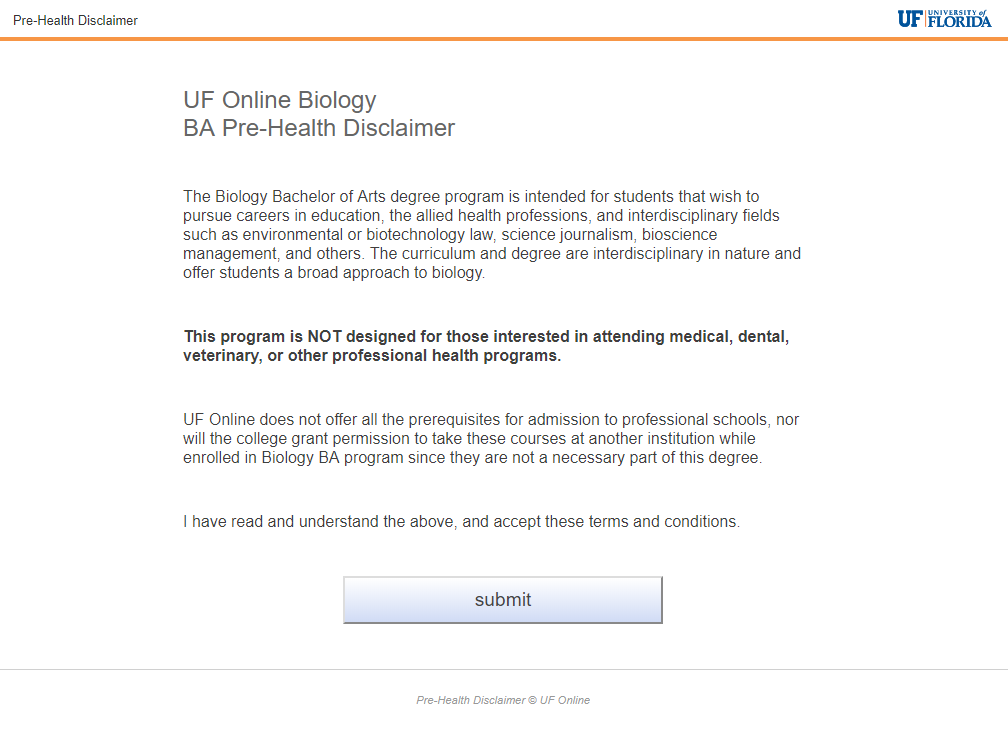
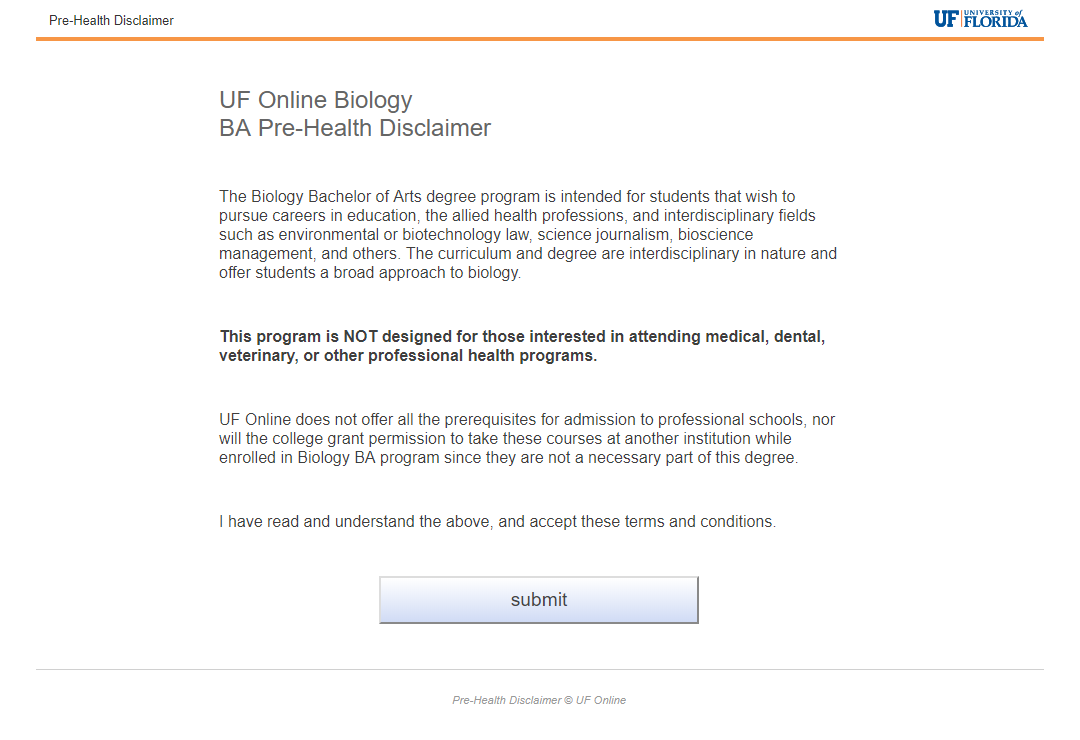
[UFO] dashboard -- having trouble loading to server and
displaying (in) properly

diff --git a/fixlist/UFO/forms/readmission/css/master.css b/fixlist/UFO/forms/readmission/css/master.css
@@ -16,38 +16,58 @@ html {
 body {
   background: #ffefdd;
   background: #5f89af;
+  background: white;
   overflow-y: scroll;
 }
 
 .container {
   width: 100%;
   margin: auto;
-  max-width: 980px;
+  /* max-width: 980px; */
   background: white;
 }
 
 header {
-  border-bottom: 1px solid #444;
+  border-bottom: 1px solid #999;
   margin-bottom: 1.5rem;
-  background: #efa158;
   background: white;
   color: #efa158;
 }
 
-h1 {
-  font-size: 1.8rem;
-  padding-bottom: 1rem;
-  padding-top: .9rem;
-  color: #333;
-  color: #d67c28; /* orange */
+.container_header {
   width: 87%;
   margin: auto;
+  max-width: 61.25rem;
+  display: flex;
+  justify-content: space-between;
+}
+
+
+.container_header h1 {
+  font-size: 1rem;
+  padding-bottom: 1rem;
+  padding-top: .9rem;
+  color: #d67c28; /* orange */
+}
+
+p#container_header {
+  margin: 0;
+  margin-top: 1rem;
+  padding: 0;
+  width: 100px;
+  color: #575757;
+  font-size: .75rem;
+}
+
+h1 i {
+  font-size: 1rem;
+  font-weight: 100;
 }
 
 nav {
   padding-bottom: 1rem;
   padding-top: 1rem;
-  border-top: 1px solid #4b6896;
+  border-top: 1px solid #999;
 }
 
 nav ul {
@@ -93,8 +113,9 @@ h2 {
   width: 87%;
   margin: auto;
   margin-bottom: 1.3rem;
-  font-size: 1.3rem;
-  color: #2d2d2d;
+  font-size: 2rem;
+  color: #494949;
+
 }
 
 p {
@@ -125,6 +146,13 @@ input {
   outline-style: solid;
   outline-width: 2px;
   background: white;
+}
+
+#input_startForm {
+  width: 300px;
+  color: #555;
+  font-size: 1.5rem;
+  font-weight: 100;
 }
 
 input:hover {
@@ -194,6 +222,19 @@ fieldset {
   text-decoration: none;
 }
 
+section {
+  max-width: 51.25rem;
+  margin: auto;
+}
+
+section p {
+  margin-bottom: 1.5rem;
+}
+
+label {
+  color: #555;
+}
+
 .displayNone {
   display: none;
 }
@@ -203,8 +244,10 @@ fieldset {
 }
 
 footer {
-  margin-top: 2rem;
+  margin-top: 2.71rem;
+  padding-top: 1.5rem;
   padding-bottom: 1rem;
+  border-top: 1px solid #e0e0e0;
 }
 
 

diff --git a/fixlist/UFO/css/index.css b/fixlist/UFO/css/index.css
@@ -6,7 +6,7 @@
 .form {
   border: 1px solid #c0c0c0;
   box-shadow: .3rem .3rem .8rem #c0c0c0;
-  width: 32%;
+  width: 31%;
   border-radius: .3rem;
   margin-top: 1.5rem;
   padding: 0 0 1rem 0;
@@ -17,13 +17,27 @@
   margin-bottom: 1rem;
 }
 
+.form p a {
+  font-weight: bold;
+}
+
 .form img {
-  width: 99%;
+  width: 90%;
   display: block;
   margin: auto;
+  border: 2px solid #c0c0c0;
+  border-radius: .25rem;
+  margin-top: 1rem;
+  box-shadow: 0 .3rem .8rem #c0c0c0;
+  margin-bottom: 1.2rem;
 }
 
 .form li {
   color: #444;
   line-height: 1.6;
+}
+
+.form h3 {
+  font-weight: bold;
+  margin: 1.3rem auto .5rem auto;
 }

diff --git a/fixlist/UFO/index.php b/fixlist/UFO/index.php
@@ -7,18 +7,47 @@
 
   <div class="page container">
     <div class="form">
-      <img src="image/disclaimer_prehealth.png" alt="">
+      <a href="https://www.advising.ufl.edu/UFO/forms/prehealth/disclaimer.php" target="_blank"><img src="image/disclaimer_prehealth.png" alt=""></a>
       <p><a href="https://www.advising.ufl.edu/UFO/forms/prehealth/disclaimer.php" target="_blank">Pre-Health Acknowledgement</a></p>
+      <h3>Environment</h3>
       <ul>
-        <li>recognizes user via SHIB</li>
-        <li>Mailsto: dsking@ufl.edu</li>
+        <li>User via SHIB Vars</li>
+      </ul>
+      <h3>Owner</h3>
+      <ul>
+        <li><i>dsking@ufl.edu</i></li>
       </ul>
     </div><!-- form -->
     <div class="form">
-      <p>Readmission Validation</p>
+      <a href="https://www.advising.ufl.edu/UFO/forms/readmission/" target="_blank"><img src="image/acknowledgement_readmissions.png" alt=""></a>
+      <p><a href="https://www.advising.ufl.edu/UFO/forms/readmission/" target="_blank">Readmission Validation</a></p>
+      <h3>Environment</h3>
+      <ul>
+        <li>User via SHIB Vars</li>
+      </ul>
+      <h3>Owner</h3>
+      <ul>
+        <li><i>clasufonline@advising.ufl.edu</i></li>
+      </ul>
     </div><!-- form -->
     <div class="form">
-      <p>PaCE Transition Contract</p>
+      <a href="https://www.advising.ufl.edu/UFO/PaCE/records/transition.php" target="_blank"><img src="image/contract_paceTransition.png" alt=""></a>
+      <p><a href="https://www.advising.ufl.edu/UFO/PaCE/records/transition.php" target="_blank">PaCE Transition Contract</a></p>
+      <h3>Environment</h3>
+      <ul>
+        <li>Two-Way Limited Access via SHIB</li>
+      </ul>
+      <h3>Response Emails</h3>
+      <ul>
+        <li>nraymond@advising.ufl.edu</li>
+        <li>acatalano2@ufl.edu</li>
+        <li>claspace@advising.ufl.edu</li>
+      </ul>
+      <h3>Approval Email:</h3>
+      <ul>
+        <li>onestop@ufonline.ufl.edu</li>
+      </ul>
+
     </div><!-- form -->
   </div>
 

diff --git a/fixlist/UFO/forms/readmission/include/glid.php b/fixlist/UFO/forms/readmission/include/glid.php
@@ -1,8 +1,17 @@
 <?php
-  $UFID         = $_SERVER['HTTP_UFSHIB_UFID'];
-  $date_auto    = date("Y-m-d H:i:s");
-  $nameBusiness = $_SERVER['HTTP_UFSHIB_BUSINESSNAME'];
-  $email        = $_SERVER['HTTP_UFSHIB_MAIL'];
-  $nameGiven    = $_SERVER['HTTP_UFSHIB_GIVENNAME']." ".$_SERVER['HTTP_UFSHIB_SN'];
-  $nameGivenShort    = $_SERVER['HTTP_UFSHIB_GIVENNAME'];
+  if (isset($_SERVER['HTTP_UFSHIB_MAIL'])) {
+    $UFID           = $_SERVER['HTTP_UFSHIB_UFID'];
+    $date_auto      = date("Y-m-d H:i:s");
+    $nameBusiness   = $_SERVER['HTTP_UFSHIB_BUSINESSNAME'];
+    $email          = $_SERVER['HTTP_UFSHIB_MAIL'];
+    $nameGiven      = $_SERVER['HTTP_UFSHIB_GIVENNAME']." ".$_SERVER['HTTP_UFSHIB_SN'];
+    $nameGivenShort = $_SERVER['HTTP_UFSHIB_GIVENNAME'];
+  } else {
+      $UFID           = "12344321";
+      $date_auto      = "00/00/00";
+      $nameBusiness   = "Localhost, Admin";
+      $email          = "admin@localhost.com";
+      $nameGiven      = "Admin Localhost";
+      $nameGivenShort = "Admin";
+  }
 ?>

diff --git a/fixlist/UFO/forms/readmission/disclosure.php b/fixlist/UFO/forms/readmission/disclosure.php
@@ -9,7 +9,7 @@
 	require_once("include/header.php");
 ?>
 		<section>
-		  <h2><span class="orange"><?php echo $thisPage; ?>.</span> Health Professions Disclosure</h2>
+		  <h2><?php echo $thisPage; ?>. Health Professions Disclosure</h2>
       <form class="" action="expectations.php" method="post">
   		  <p>UF Online Majors in the College of Liberal Arts and Sciences (CLAS) <b>were not</b> designed to accommodate students interested in pursuing a career in a health profession such as: pre-med, pre-dent, pre-vet, PA, or Pharmacy.</p>
   		  <p>It is <b>not advisable</b> for CLAS UF Online students to complete pre-professional courses through UF Online or as a transient student; UF Online does not offer all of these courses, and professional schools may not accept these courses, or may view them with diminished competitiveness.</p>

diff --git a/fixlist/UFO/forms/readmission/expectations.php b/fixlist/UFO/forms/readmission/expectations.php
@@ -12,7 +12,7 @@
 
   <form class="" action="curriculum.php" method="post">
 		<section>
-		  <h2><span class="orange"><?php echo $thisPage; ?>.</span> Expectation to Remain in UF Online:</h2>
+		  <h2><?php echo $thisPage; ?>. Expectation to Remain in UF Online:</h2>
 		  <p>UF Online students are expected to graduate through UF Online.</p>
 		  <ul>
 		    <li>Admission to UF Online prevents taking any <b>residential</b> courses at the University of Florida or switching back to the UF residential program.</li>

diff --git a/fixlist/UFO/forms/readmission/requirements.php b/fixlist/UFO/forms/readmission/requirements.php
@@ -13,7 +13,7 @@
 
       <section>
           <form class="" action="form.php" method="post">
-    				<h2><span class="orange"><?php echo $thisPage; ?>.</span> Requirements</h2>
+    				<h2><?php echo $thisPage; ?>. Requirements</h2>
           	<p>Changing from UF residential to UF Online requires:</p>
     				<ol>
     					<li>Applying through the UF Online website (<a href="https://ufonline.ufl.edu/admissions/how-to-apply/#readmit" target="_blank">ufonline.ufl.edu</a>)</li>

diff --git a/fixlist/UFO/forms/readmission/form.php b/fixlist/UFO/forms/readmission/form.php
@@ -7,9 +7,9 @@
   require_once("include/email.php");
 	require_once("include/header.php");
 ?>
-      <h2><span class="orange"><?php echo $thisPage; ?>.</span> Statement</h2>
 
       <section>
+        <h2><?php echo $thisPage; ?>. Statement</h2>
         <form id='contactus' action='<?php echo $formproc->GetSelfScript(); ?>' method='post' enctype="multipart/form-data" accept-charset='UTF-8'>
 
           <div style="display: none;">

diff --git a/fixlist/UFO/forms/readmission/include/header.php b/fixlist/UFO/forms/readmission/include/header.php
@@ -18,7 +18,10 @@
 <body>
 	<div class="container">
 		<header>
-			<h1>UF Online Acknowledgement Form</h1>
+			<div class="container_header">
+				<h1>UF Online | <i>Readmission Acknowledgement Form</i></h1>
+				<p id="container_header">Welcome, <?php echo $nameGivenShort; ?></p>
+			</div><!-- header container -->
 
 			<nav>
 				<ul<?php if ($submitted == true) {echo " style=\"display: none;\"";	} ?>>

diff --git a/fixlist/UFO/forms/readmission/index.php b/fixlist/UFO/forms/readmission/index.php
@@ -5,10 +5,8 @@
 	require_once("include/header.php");
 ?>
 
-  <p>Welcome, <?php echo $nameGivenShort; ?>.</p>
-
 	<form class="" action="disclosure.php" method="post">
-		<input type="submit" name="formZero" value="Start Form">
+		<input id="input_startForm" type="submit" name="formZero" value="Start Form">
 	</form>
 
 <?php require_once("include/footer.php"); ?>

diff --git a/fixlist/UFO/forms/readmission/curriculum.php b/fixlist/UFO/forms/readmission/curriculum.php
@@ -15,7 +15,7 @@
 
 		<section>
 
-		  <h2><span class="orange"><?php echo $thisPage; ?>.</span> Curriculum:</h2>
+		  <h2><?php echo $thisPage; ?>. Curriculum:</h2>
 
 		  <p>Please note the degree options available in UF Online compared to UF residential:</p>
 

diff --git a/fixlist/UFO/forms/readmission/include/footer.php b/fixlist/UFO/forms/readmission/include/footer.php
@@ -1,7 +1,7 @@
       <footer>
-         <p>&copy; 2018 CLAS UF Online</p>
+         <p>&copy; <?php echo date('Y'); ?> CLAS UF Online</p>
        </footer>
-    
+
     </div><!-- content -->
   </body>
   <script src="scripts/back.js"></script>
